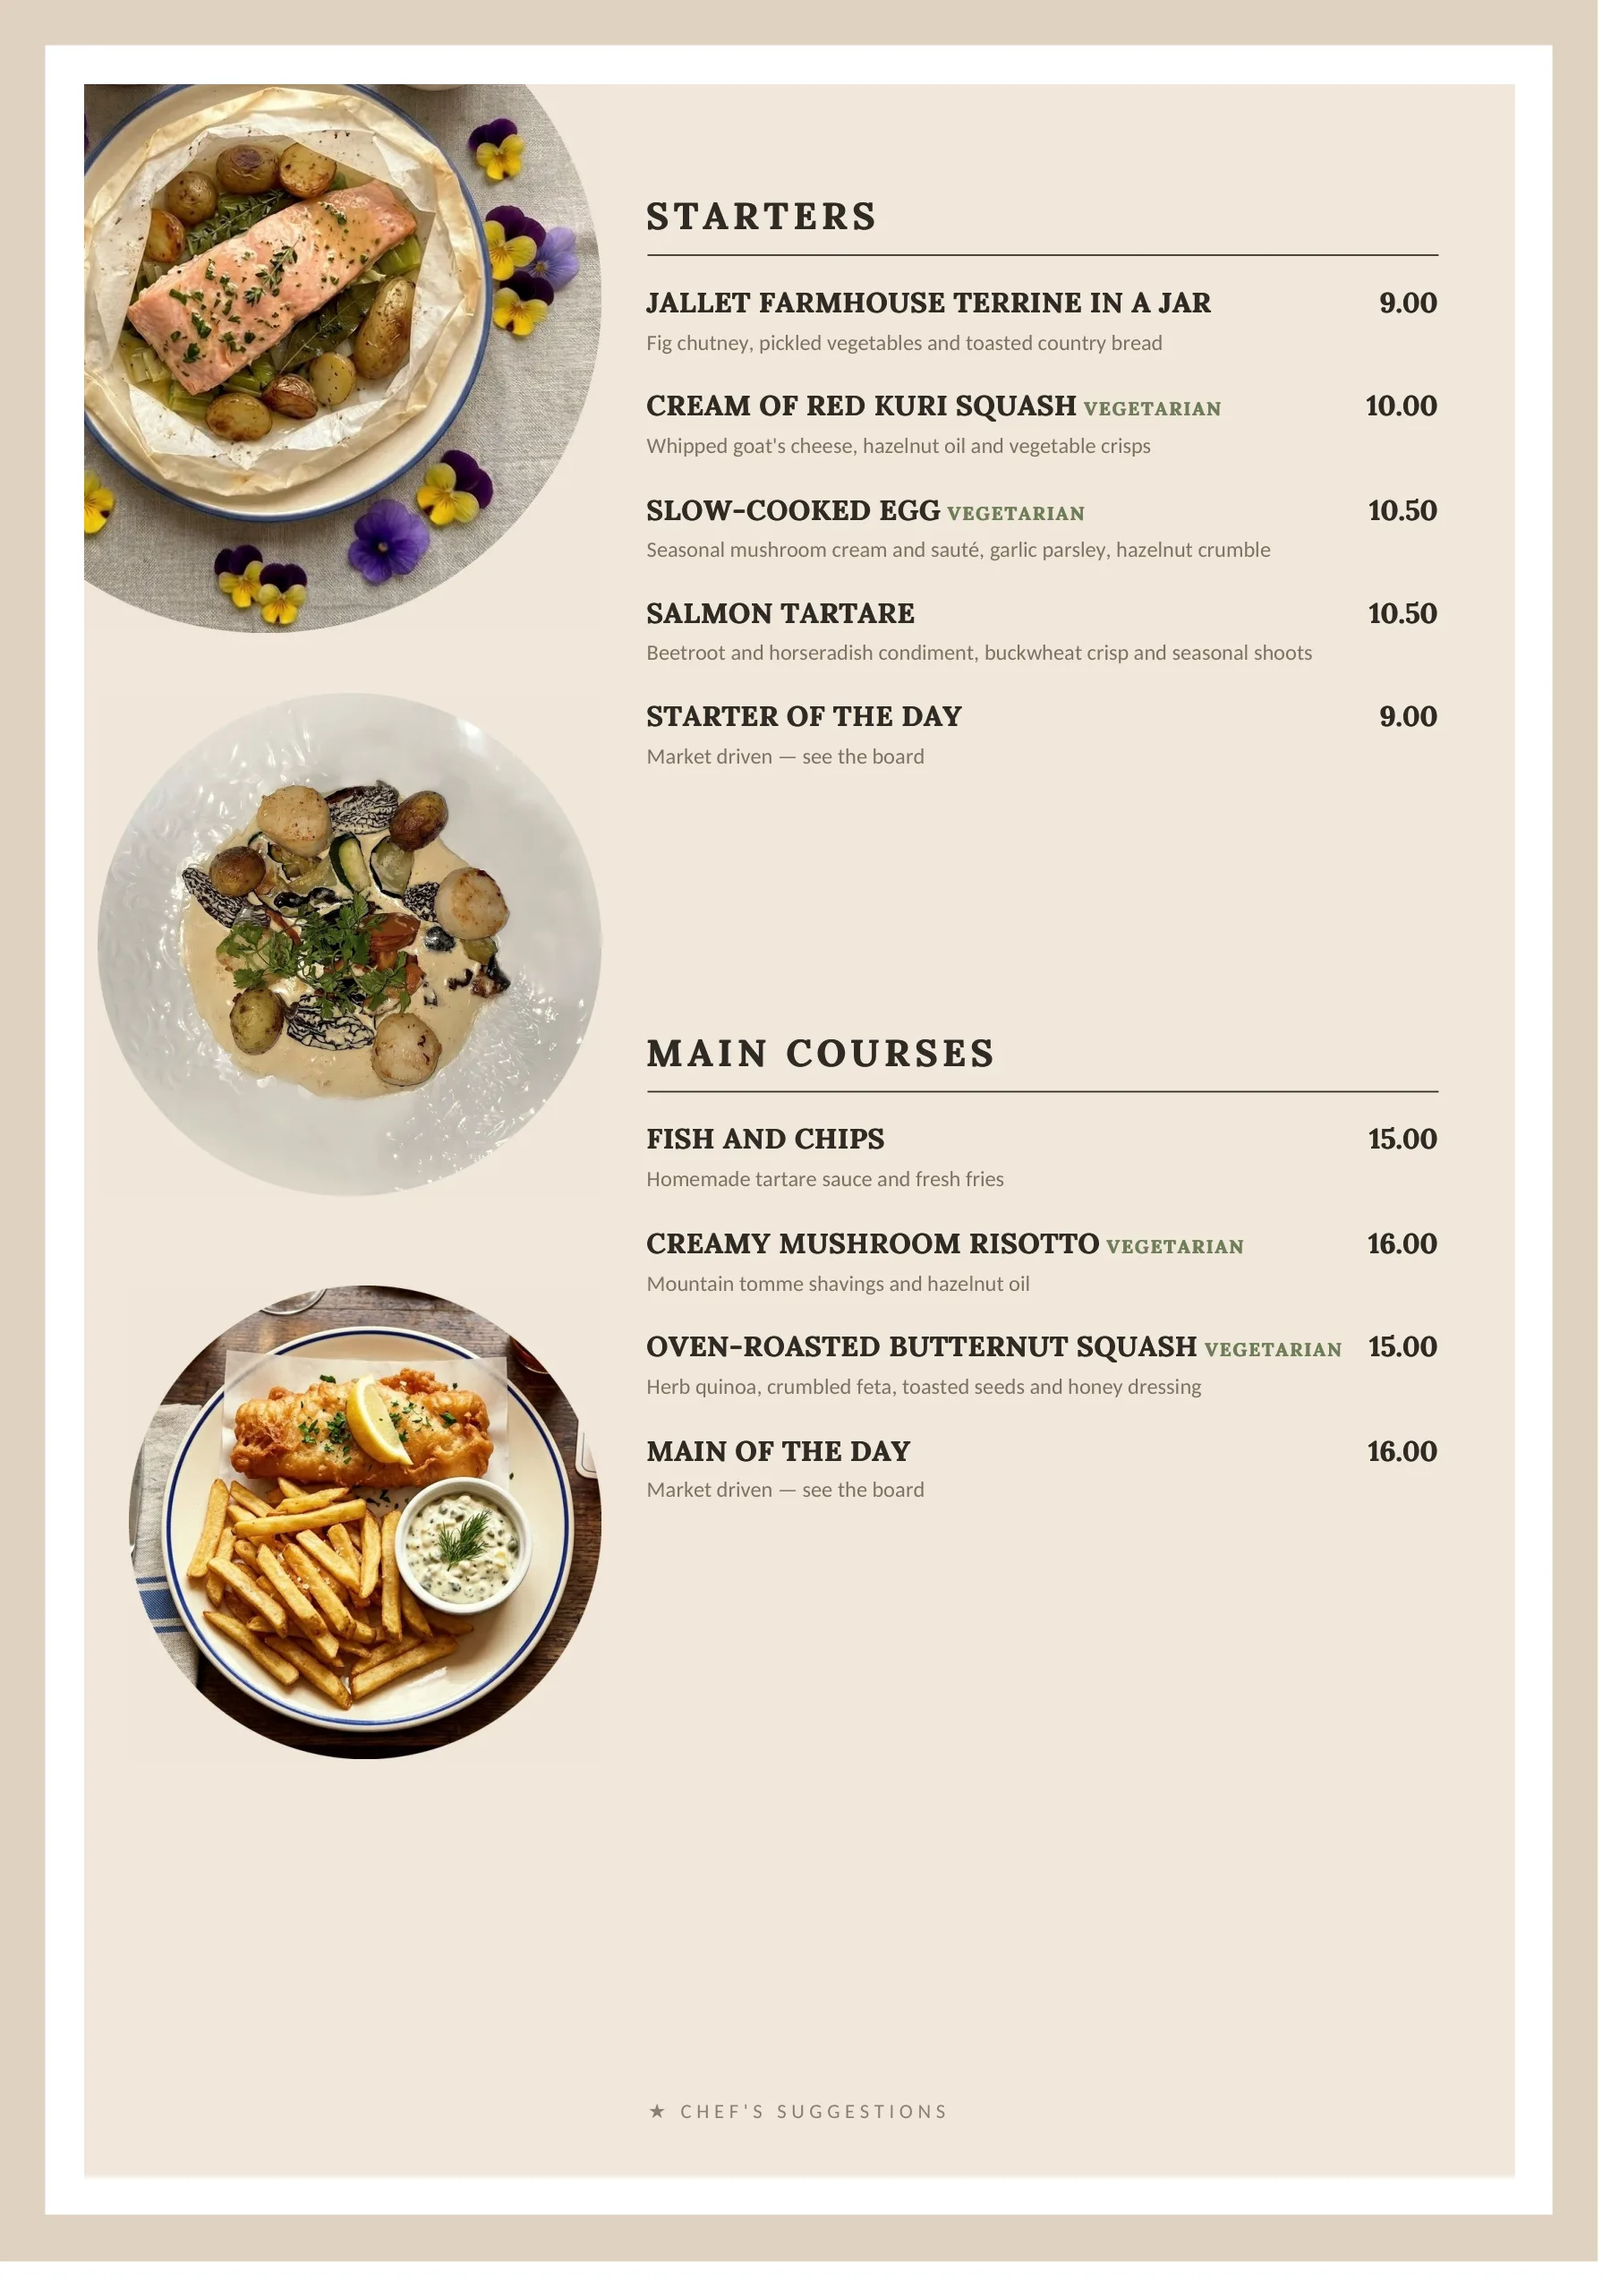
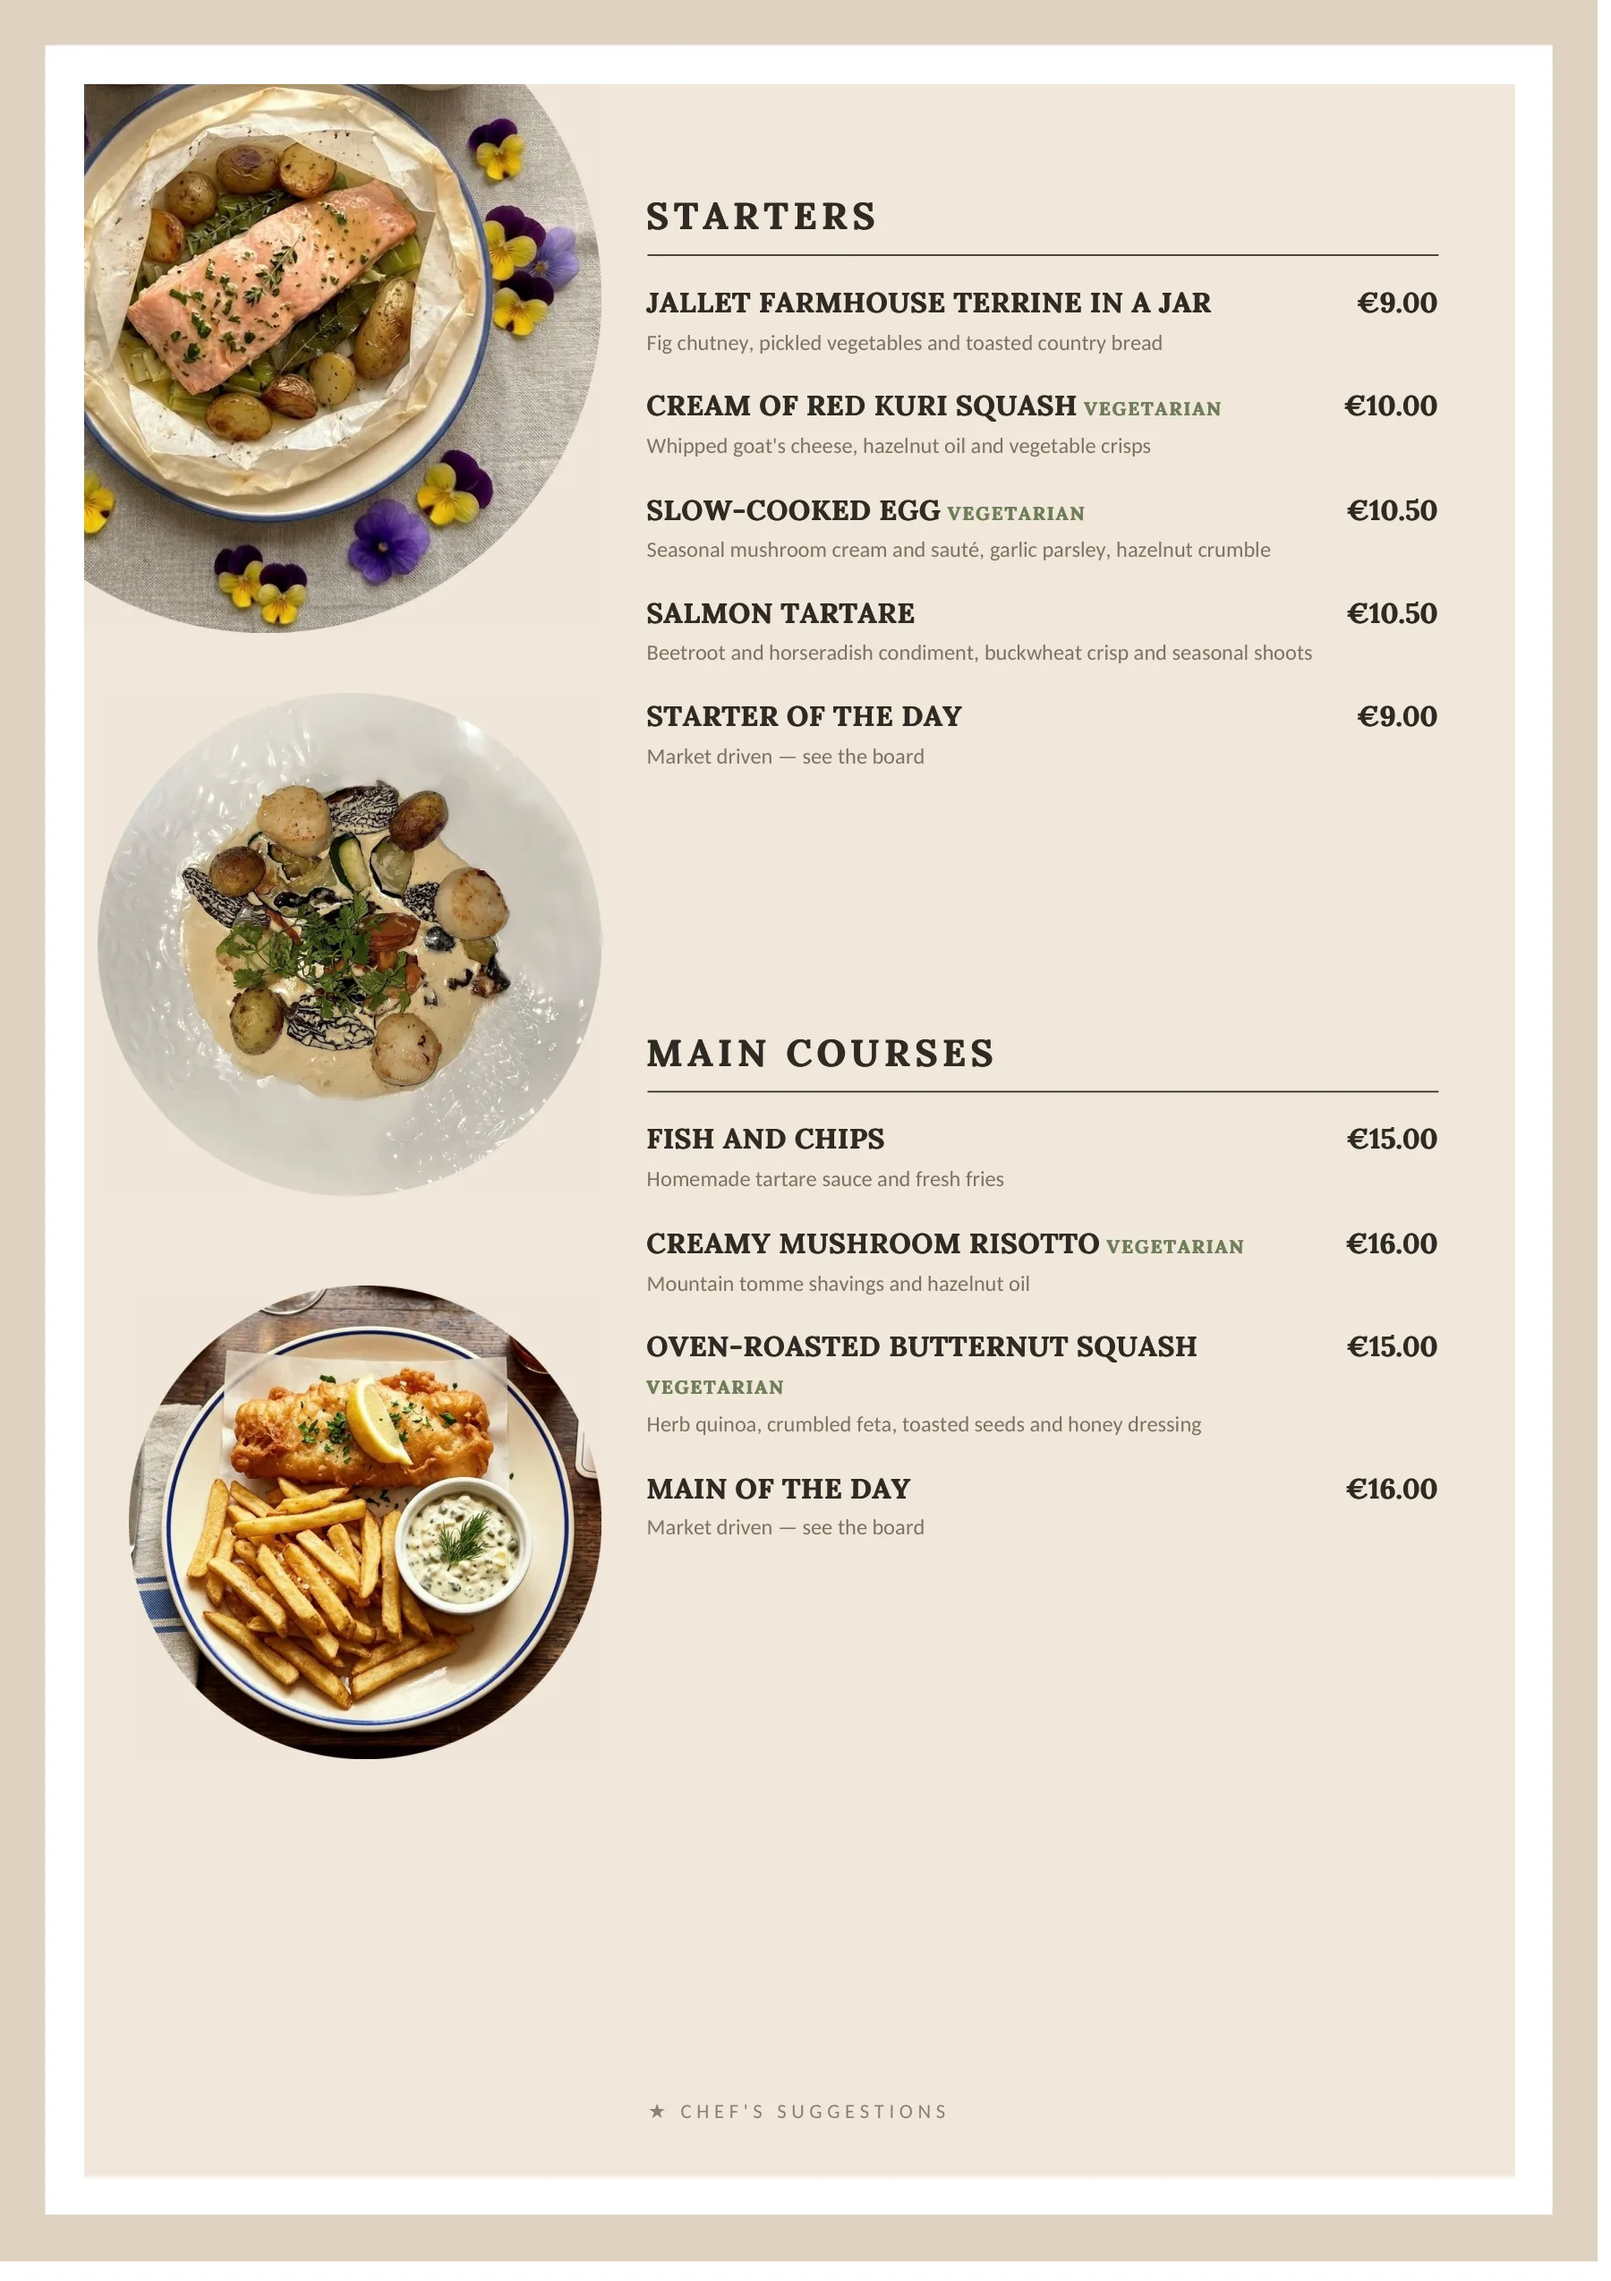
Reprend la carte d'automne livrée avec ses prix en euros
Nouvelle version des deux PDF du restaurant : chaque prix porte sa monnaie,
la couverture annonce la carte disponible à partir du 9 septembre et
distingue les services de septembre et d'octobre. Horaires mis à jour dans
les deux langues.

Le cadrage de lecture ne se resserre plus au-delà de la ligne la plus large
de chaque page : les prix des vins et des bières restaient hors de l'écran.

Claude-Session: https://claude.ai/code/session_01LvpqoNx8cqNUXzHqNuWXBn

Changed region(s): [[0.4044, 0.5891, 0.5911, 0.6821], [0.84, 0.6201, 0.9022, 0.6821], [0.7778, 0.5891, 0.8089, 0.6201]]

diff --git a/assets/js/config.js b/assets/js/config.js
@@ -19,7 +19,9 @@ window.APP_CONFIG = {
     // Se règlent aussi depuis le panneau gérant, onglet Réglages.
     address: "",
     phone: "",
-    hours: "Du lundi au dimanche · 19 h – 21 h",
+    // Repris de la couverture de la carte d'automne 2026
+    hours: "Septembre : du lundi au dimanche · 19 h – 21 h · Octobre : du lundi au vendredi",
+    hoursEn: "September: Monday to Sunday · 7 pm – 9 pm · October: Monday to Friday",
     // L'hôtel : son nom et le lien vers son site. Affichés dans
     // « Informations pratiques », sous l'adresse.
     hotel: { name: "Hôtel Ibis", url: "" },
@@ -76,28 +78,32 @@ window.APP_CONFIG = {
      *
      * Une page A4 réduite à la largeur d'un téléphone ramène les prix à
      * 7 px : lisibles de justesse, pénibles à table. Cadrer la colonne de
-     * texte les remonte à 11–12 px, la taille d'un texte de site — sans
-     * toucher à la maquette, puisque le client revient à la page entière
-     * d'une seule touche.
+     * texte les remonte — sans toucher à la maquette, puisque le client
+     * revient à la page entière d'une seule touche.
      *
-     * Les valeurs viennent des boîtes de texte du PDF (outils/bandes.py) :
-     * la maquette alterne les colonnes — photos à gauche page 2, à droite
-     * page 3, deux colonnes page 4 — et un cadrage unique couperait un nom
-     * de plat sur deux. `defaut` sert aux cartes importées depuis le
-     * panneau gérant, dont on ne connaît pas la maquette.
+     * Les valeurs viennent des boîtes de texte du PDF (outils/bandes.py),
+     * page par page : la maquette alterne les colonnes — photos à gauche
+     * page 2, à droite page 3 — et un cadrage unique couperait un nom de
+     * plat sur deux. Le nom d'un plat et son prix tiennent toujours
+     * ensemble à l'écran : les pages à colonne étroite y gagnent un fort
+     * agrandissement, celles qui étalent leurs lignes d'un bord à l'autre
+     * (les vins, les bières) un plus modeste, mais gardent leurs prix.
+     *
+     * `defaut` sert aux cartes importées depuis le panneau gérant, dont on
+     * ne connaît pas la maquette.
      */
     lecture: {
       defaut: { part: 0.62, centre: 0.5 },
       pages: [
-        { part: 0.62, centre: 0.421 },
+        { part: 0.787, centre: 0.497 },
         { part: 0.544, centre: 0.644 },
-        { part: 0.62, centre: 0.39 },
-        { part: 0.62, centre: 0.39 },
-        { part: 0.62, centre: 0.39 },
-        { part: 0.62, centre: 0.39 },
-        { part: 0.62, centre: 0.39 },
-        { part: 0.62, centre: 0.42 },
-        { part: 0.62, centre: 0.39 }
+        { part: 0.862, centre: 0.511 },
+        { part: 0.861, centre: 0.511 },
+        { part: 0.862, centre: 0.511 },
+        { part: 0.831, centre: 0.496 },
+        { part: 0.831, centre: 0.496 },
+        { part: 0.773, centre: 0.496 },
+        { part: 0.837, centre: 0.499 }
       ]
     },
 

diff --git a/assets/js/app.js b/assets/js/app.js
@@ -91,7 +91,8 @@
     const T = (cle, secours) => (window.I18n ? I18n.T(cle, secours) : secours);
     const list = document.getElementById("infoList");
     const rows = [];
-    if (r.hours) rows.push([T("infos.horaires", "Horaires"), r.hours, null]);
+    const horaires = (anglais && r.hoursEn) || r.hours;
+    if (horaires) rows.push([T("infos.horaires", "Horaires"), horaires, null]);
     if (r.address) {
       rows.push([T("infos.adresse", "Adresse"), r.address,
                  "https://maps.google.com/?q=" + encodeURIComponent(r.address)]);

diff --git a/sw.js b/sw.js
@@ -4,7 +4,7 @@
  *  • affiche la notification de rappel et rouvre l'application au clic
  * ------------------------------------------------------------------ */
 
-const CACHE = "resto-menu-v12";
+const CACHE = "resto-menu-v14";
 
 const PRECACHE = [
   "./",

diff --git a/outils/bandes.py b/outils/bandes.py
@@ -7,20 +7,27 @@ elle cadre la colonne de texte de la page. La maquette de la carte alterne
 unique couperait un nom de plat sur deux. On lit donc les boîtes de texte du
 PDF lui-même, ce qui suit la maquette du restaurant au lieu de la deviner.
 
-Règle : la fenêtre est la boîte du texte, plafonnée à PART_MAX de la largeur
-de page — au-delà, on la cale à gauche, là où commence la lecture, et le
-client fait glisser pour la fin de la ligne.
+Règle : la fenêtre est la boîte du texte de la page, bornée. Un nom de plat
+et son prix doivent tenir ensemble à l'écran — un prix qu'on ne peut pas
+rattacher à un plat ne sert à rien — donc on ne cadre jamais plus serré que
+la ligne la plus large. Les pages à colonne étroite (les entrées, les plats)
+y gagnent un fort agrandissement ; celles qui étalent leurs lignes d'un bord
+à l'autre (les vins, les bières) en gagnent un plus modeste, mais gardent
+leurs prix à l'écran.
 """
 import json
+import os
+
 import pymupdf
 
 U = "/root/.claude/uploads/eb973e87-7c35-50ce-8874-e9267b19fddb/"
 SOURCES = {
-    "fr": U + "3cae6e3c-Carte_Les_Tilleuls_Automne_2026.pdf",
-    "en": U + "561411c6-Les_Tilleuls_Autumn_Menu_2026_EN.pdf",
+    "fr": U + "84455ab2-Carte_Les_Tilleuls_Automne_2026.pdf",
+    "en": U + "200304f2-Les_Tilleuls_Autumn_Menu_2026_EN.pdf",
 }
 MARGE = 14.0     # respiration de chaque côté, en points
-PART_MAX = 0.62  # au moins 1,6x d'agrandissement : les prix passent à 11 px
+PART_MIN = 0.50  # au plus 2x : au-delà, on ne lit plus qu'un mot à la fois
+PART_MAX = 0.90  # en deçà de 1,1x, l'agrandissement ne vaudrait pas le geste
 
 for langue, chemin in SOURCES.items():
     bandes = []
@@ -33,9 +40,6 @@ for langue, chemin in SOURCES.items():
             continue
         x0 = max(0.0, min(b[0] for b in boites) - MARGE)
         x1 = min(L, max(b[2] for b in boites) + MARGE)
-        part = (x1 - x0) / L
-        if part <= PART_MAX:
-            bandes.append({"part": round(part, 3), "centre": round((x0 + x1) / 2 / L, 3)})
-        else:
-            bandes.append({"part": PART_MAX, "centre": round((x0 / L) + PART_MAX / 2, 3)})
+        part = min(PART_MAX, max(PART_MIN, (x1 - x0) / L))
+        bandes.append({"part": round(part, 3), "centre": round((x0 + x1) / 2 / L, 3)})
     print('"%s": %s' % (langue, json.dumps(bandes)))

diff --git a/outils/rendre-carte.py b/outils/rendre-carte.py
@@ -16,12 +16,13 @@ import cv2
 import fitz
 import numpy as np
 
+ICI = os.path.dirname(os.path.abspath(__file__))
 U = "/root/.claude/uploads/eb973e87-7c35-50ce-8874-e9267b19fddb/"
 SOURCES = {
-    "fr": U + "3cae6e3c-Carte_Les_Tilleuls_Automne_2026.pdf",
-    "en": U + "561411c6-Les_Tilleuls_Autumn_Menu_2026_EN.pdf",
+    "fr": U + "84455ab2-Carte_Les_Tilleuls_Automne_2026.pdf",
+    "en": U + "200304f2-Les_Tilleuls_Autumn_Menu_2026_EN.pdf",
 }
-OUT = "/home/user/Florijan-Veselaj/assets/menu"
+OUT = os.path.join(os.path.dirname(ICI), "assets", "menu")
 LARGEUR = 1800
 QUALITE = 82
 

diff --git a/outils/LISEZMOI.md b/outils/LISEZMOI.md
@@ -33,10 +33,17 @@ python3 bandes.py    # affiche les tableaux à coller dans config.js
 ```
 
 Le résultat va dans `menu.lecture.pages` de `assets/js/config.js`. La
-maquette alterne les colonnes — photos à gauche page 2, à droite page 3,
-deux colonnes page 4 — et un cadrage unique couperait un nom de plat sur
-deux. `menu.lecture.defaut` sert aux cartes déposées depuis le panneau
-gérant, dont on ne connaît pas la maquette.
+maquette alterne les colonnes — photos à gauche page 2, à droite page 3 —
+et un cadrage unique couperait un nom de plat sur deux. La règle : ne
+jamais cadrer plus serré que la ligne la plus large de la page, pour qu'un
+nom de plat et son prix tiennent toujours ensemble à l'écran. Un prix
+qu'on ne peut pas rattacher à un plat ne sert à rien. Les pages à colonne
+étroite (les entrées, les plats) y gagnent un fort agrandissement ; celles
+qui étalent leurs lignes d'un bord à l'autre (les vins, les bières) un
+plus modeste, mais gardent leurs prix à l'écran.
+
+`menu.lecture.defaut` sert aux cartes déposées depuis le panneau gérant,
+dont on ne connaît pas la maquette.
 
 Pour que les prix soient lisibles **sans que le client ait à agrandir**, il
 faudrait que le PDF lui-même soit dessiné au format d'un téléphone (page
